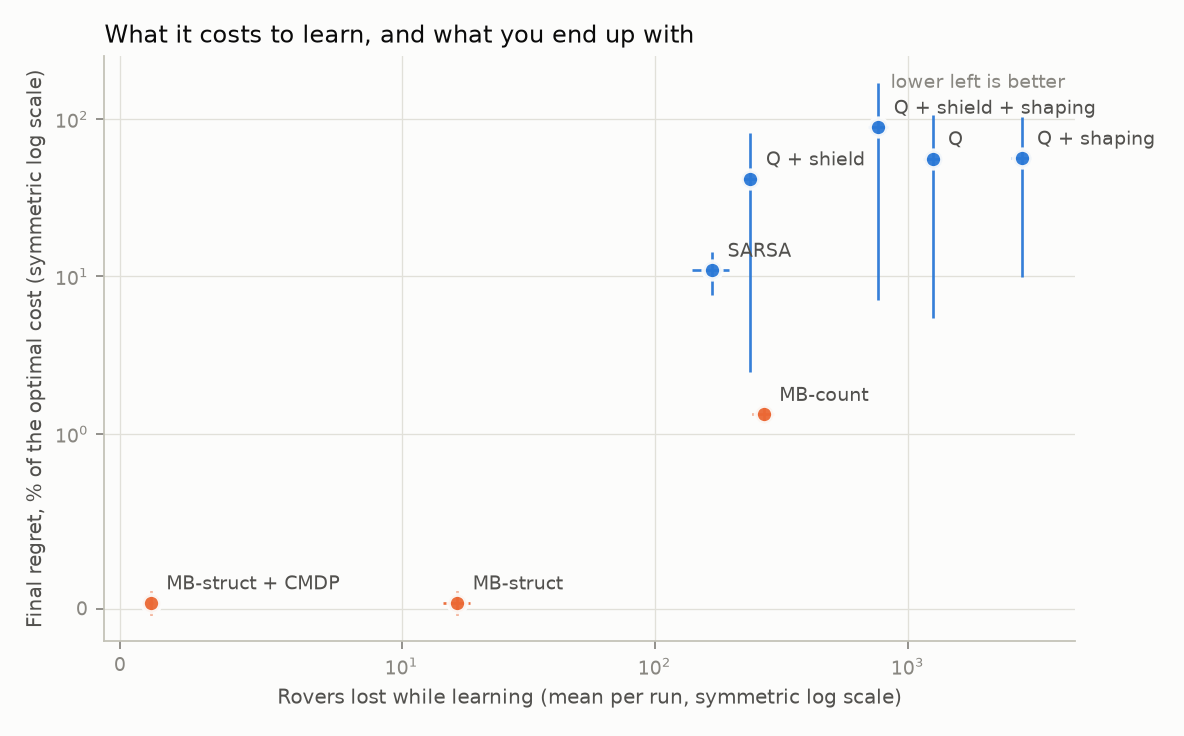
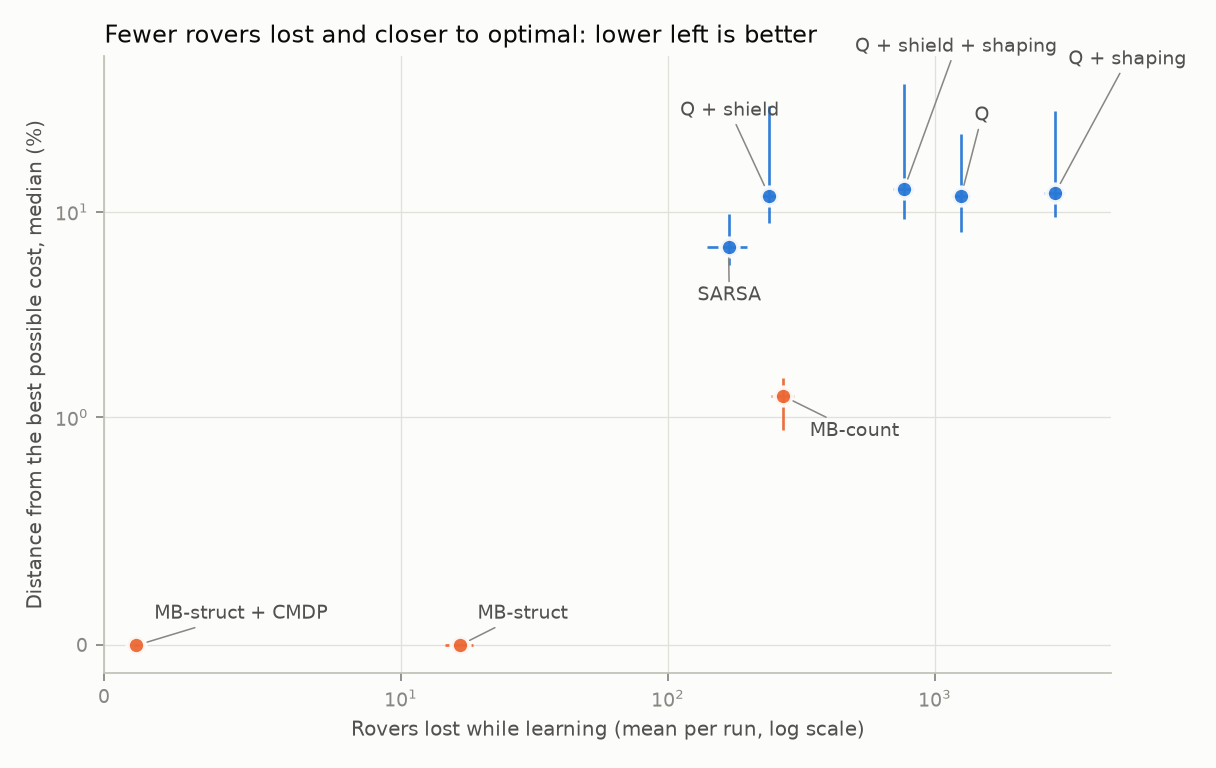
Make the headline figures show medians like the tables, and open the README for readers who do not know RL

diff --git a/experiments/e1.py b/experiments/e1.py
@@ -146,28 +146,45 @@ FAMILY = {  # model-free in blue, model-based in orange
 }  # fmt: skip
 
 
+LABEL_PLACEMENT = {  # (dx, dy) in points from the dot; the long labels sit on leader lines
+    "Q": (6, 34),
+    "Q + shaping": (6, 58),
+    "Q + shield": (-40, 36),
+    "Q + shield + shaping": (-22, 62),
+    "SARSA": (-14, -24),
+    "MB-count": (12, -18),
+    "MB-struct": (8, 12),
+    "MB-struct + CMDP": (8, 12),
+}
+
+
 def plot_pareto(result: dict, path: Path) -> None:
+    """Rovers lost while learning against final regret. Regret is its median with the quartiles:
+    a few looping policies make its mean misleading (see experiments/common.py)."""
     import matplotlib.pyplot as plt
 
     with style.context():
-        fig, ax = plt.subplots(figsize=(7.4, 4.6))
+        fig, ax = plt.subplots(figsize=(7.6, 4.8))
         for label, c in result["configs"].items():
             x, y = c["train_failures"], c["regret"]
+            spread = 100 * np.array([[y["median"] - y["q1"]], [y["q3"] - y["median"]]])
             ax.errorbar(
-                x["mean"], 100 * y["mean"], xerr=np.nan_to_num(x["ci95"]),
-                yerr=100 * np.nan_to_num(y["ci95"]), fmt="o", markersize=8, color=FAMILY[label],
-                markeredgecolor=style.SURFACE, markeredgewidth=2, elinewidth=1.2, capsize=0,
-                alpha=0.95,
+                x["mean"], 100 * y["median"], xerr=np.nan_to_num(x["ci95"]), yerr=spread,
+                fmt="o", markersize=8, color=FAMILY[label], markeredgecolor=style.SURFACE,
+                markeredgewidth=2, elinewidth=1.2, capsize=0, alpha=0.95,
             )  # fmt: skip
-            ax.annotate(label, (x["mean"], 100 * y["mean"]), xytext=(7, 6),
-                        textcoords="offset points", fontsize=8.5, color=style.INK_2)  # fmt: skip
+            ax.annotate(
+                label, (x["mean"], 100 * y["median"]), xytext=LABEL_PLACEMENT.get(label, (7, 6)),
+                textcoords="offset points", fontsize=8.5, color=style.INK_2,
+                arrowprops={"arrowstyle": "-", "color": style.MUTED, "lw": 0.7, "shrinkA": 0,
+                            "shrinkB": 5},
+            )  # fmt: skip
         ax.set_xscale("symlog", linthresh=10)
         ax.set_yscale("symlog", linthresh=1)
-        ax.set_xlabel("Rovers lost while learning (mean per run, symmetric log scale)")
-        ax.set_ylabel("Final regret, % of the optimal cost (symmetric log scale)")
-        ax.set_title("What it costs to learn, and what you end up with")
-        ax.text(0.99, 0.97, "lower left is better", transform=ax.transAxes, ha="right",
-                va="top", fontsize=8.5, color=style.MUTED)  # fmt: skip
+        ax.set_xlim(left=0)
+        ax.set_xlabel("Rovers lost while learning (mean per run, log scale)")
+        ax.set_ylabel("Distance from the best possible cost, median (%)")
+        ax.set_title("Fewer rovers lost and closer to optimal: lower left is better")
         fig.tight_layout()
         path.parent.mkdir(parents=True, exist_ok=True)
         fig.savefig(path)

diff --git a/experiments/e1b.py b/experiments/e1b.py
@@ -194,21 +194,20 @@ def plot_ablation(result: dict, path: Path) -> None:
         for ax, family in zip(axes, FAMILIES, strict=True):
             for i, (label, c) in enumerate(result["families"][family]["configs"].items()):
                 x, y = c["train_failures"], c["regret"]
-                half = np.nan_to_num(y["ci95"])
-                below = np.minimum(half, y["mean"])  # regret cannot be negative
+                spread = 100 * np.array([[y["median"] - y["q1"]], [y["q3"] - y["median"]]])
                 ax.errorbar(
-                    x["mean"], 100 * y["mean"], xerr=np.nan_to_num(x["ci95"]),
-                    yerr=100 * np.array([[below], [half]]), fmt="o", markersize=8,
+                    x["mean"], 100 * y["median"], xerr=np.nan_to_num(x["ci95"]),
+                    yerr=spread, fmt="o", markersize=8,
                     color=COLOURS[label], markeredgecolor=style.SURFACE, markeredgewidth=2,
                     elinewidth=1.2, capsize=0,
                 )  # fmt: skip
-                ax.annotate(letters[i], (x["mean"], 100 * y["mean"]), xytext=(8, 6),
+                ax.annotate(letters[i], (x["mean"], 100 * y["median"]), xytext=(8, 6),
                             textcoords="offset points", fontsize=9, color=style.INK)  # fmt: skip
             ax.set_xscale("symlog", linthresh=10)
             ax.set_yscale("symlog", linthresh=1)
             ax.set_title(f"{family} maps")
             ax.set_xlabel("Rovers lost while learning (mean per run)")
-        axes[0].set_ylabel("Final regret, % of the optimal cost")
+        axes[0].set_ylabel("Final regret, median and quartiles (% of the optimal cost)")
         names = list(result["families"]["dilemma"]["configs"])
         key = "    ".join(f"{letters[i]} = {name}" for i, name in enumerate(names))
         fig.text(0.5, 0.01, key, ha="center", fontsize=8.5, color=style.INK_2)

diff --git a/README.md b/README.md
@@ -2,19 +2,30 @@
 
 [![ci](https://github.com/BrianTr9/Risk-Ladder/actions/workflows/ci.yml/badge.svg)](https://github.com/BrianTr9/Risk-Ladder/actions/workflows/ci.yml)
 
-Exact benchmarking of safe planning and learning for autonomous agents under model uncertainty.
+How much does an AI agent lose while it learns a dangerous job, and what makes it lose less? RiskLadder answers with exact numbers, using a rover that must cross a hazard map without being destroyed. It compares planning, reinforcement learning and model-based learning, and measures risk by computation instead of simulation.
 
-Live demo: https://briantr9-risk-ladder.hf.space (free Space, so the first request after a quiet period can take a minute). Write-up: [docs/writeup.md](docs/writeup.md). Every number below comes from `results/` (see [results/SUMMARY.md](results/SUMMARY.md), generated).
+Python (NumPy, SciPy), FastAPI, Gradio, Docker, more than 880 tests, CI/CD to a live demo: https://briantr9-risk-ladder.hf.space (free Space, so the first request after a quiet period can take a minute). Read the [write-up](docs/writeup.md) first, then the [design decisions](docs/decisions.md). Every number below comes from `results/` (see [results/SUMMARY.md](results/SUMMARY.md), generated).
 
-![Rovers lost while learning against final regret](results/figures/e1_pareto.png)
+![Rovers lost while learning against distance from the best possible cost](results/figures/e1_pareto.png)
 
-Eight ways to learn the same ten maps. Lower left is better: fewer rovers lost while learning and a smaller final regret.
+Each dot is one way of learning the same ten maps (five runs per map). Further left means fewer rovers destroyed while learning, lower means closer to the best possible plan at the end. The structured model that plans under a risk bound (bottom left) lost 1 rover on average where Q-learning lost 1,252.
 
 ## The problem
 
 A rover knows its map but not exactly how it moves: it may slip sideways, and entering a hazard loses it. Should it plan with a model or learn from experience? How can it learn without being destroyed while learning? And if the model it trusts is wrong, how much does that cost?
 
 The maps are small enough to solve exactly, so every agent's regret and every failure probability are computed in closed form instead of estimated from noisy rollouts.
+
+Terms used below:
+
+| Term | Meaning |
+|---|---|
+| Regret | How much more the agent's expected cost is than the best possible, as a percentage |
+| P(fail) | The probability that the rover is lost |
+| Oracle | The exact computation of a policy's cost and P(fail), with no simulation |
+| Constrained MDP | The planning problem of finding the cheapest plan whose P(fail) stays under a bound |
+| Safety shield | A rule that blocks actions that could lose the rover in one step |
+| Model-free, model-based | Learning values directly from samples, or learning a model of the world and then planning on it |
 
 ## The ladder
 
